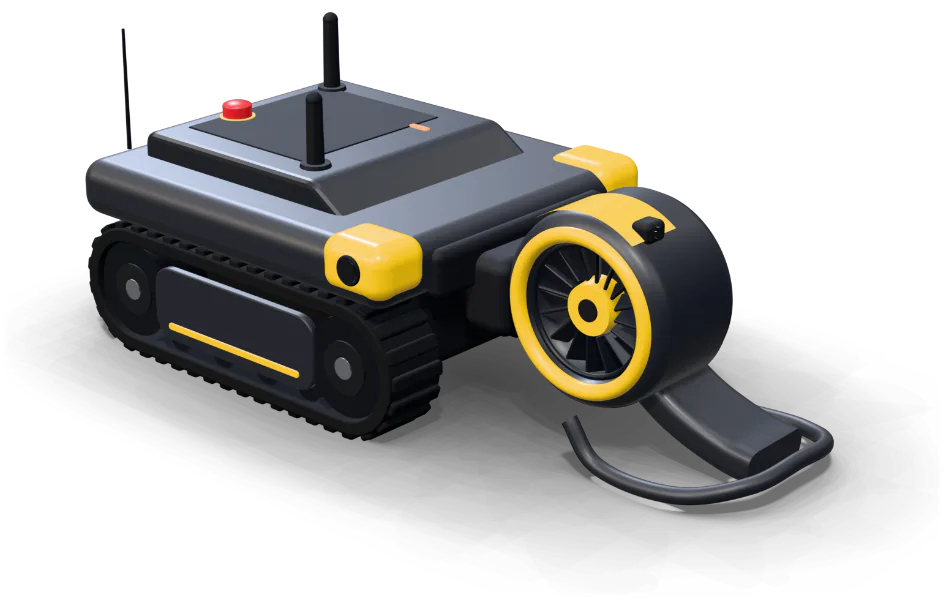
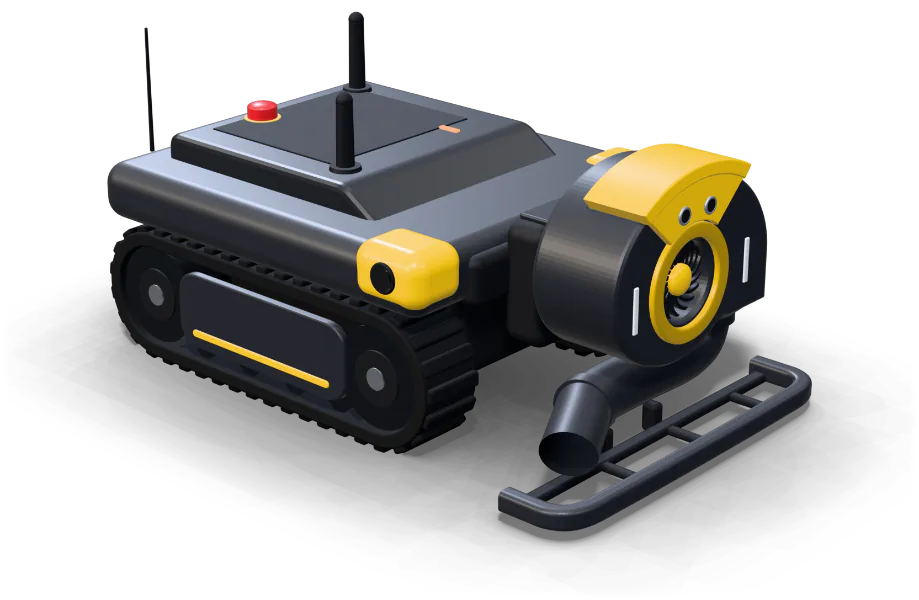
Yarbo card: redraw the blower module
The blower picture now follows Yarbo's blower. The fan sits on the robot's
center line with its intake facing forward. Its outlet drops down the
robot's left side into a pipe that runs under the fan to an angled nozzle
on the robot's right, above a square-section bumper on a ladder frame.

Re-shot the README overview and theme screenshots, which show the blower.

Changed region(s): [[0.0914, 0.0, 0.914, 0.93], [0.1828, 0.39, 0.2133, 0.42]]

diff --git a/custom_components/yarbo/www/yarbo-card.js b/custom_components/yarbo/www/yarbo-card.js
@@ -119,7 +119,7 @@ const PICTURE_DIR = new URL("images/", import.meta.url);
 const PICTURE_VERSION = new URL(import.meta.url).search;
 // Widths at 600 px high, so the card keeps its layout while a picture loads.
 const PICTURES = {
-  "y-core": 856, "y-snow": 808, "y-mower": 1008, "y-blower": 946,
+  "y-core": 856, "y-snow": 808, "y-mower": 1008, "y-blower": 919,
   "m-core": 823, "m-snow": 867, "m-mower": 918, "m-trim": 882, "m-collect": 961,
 };
 // These also come with the module's lights on, in the same framing.
